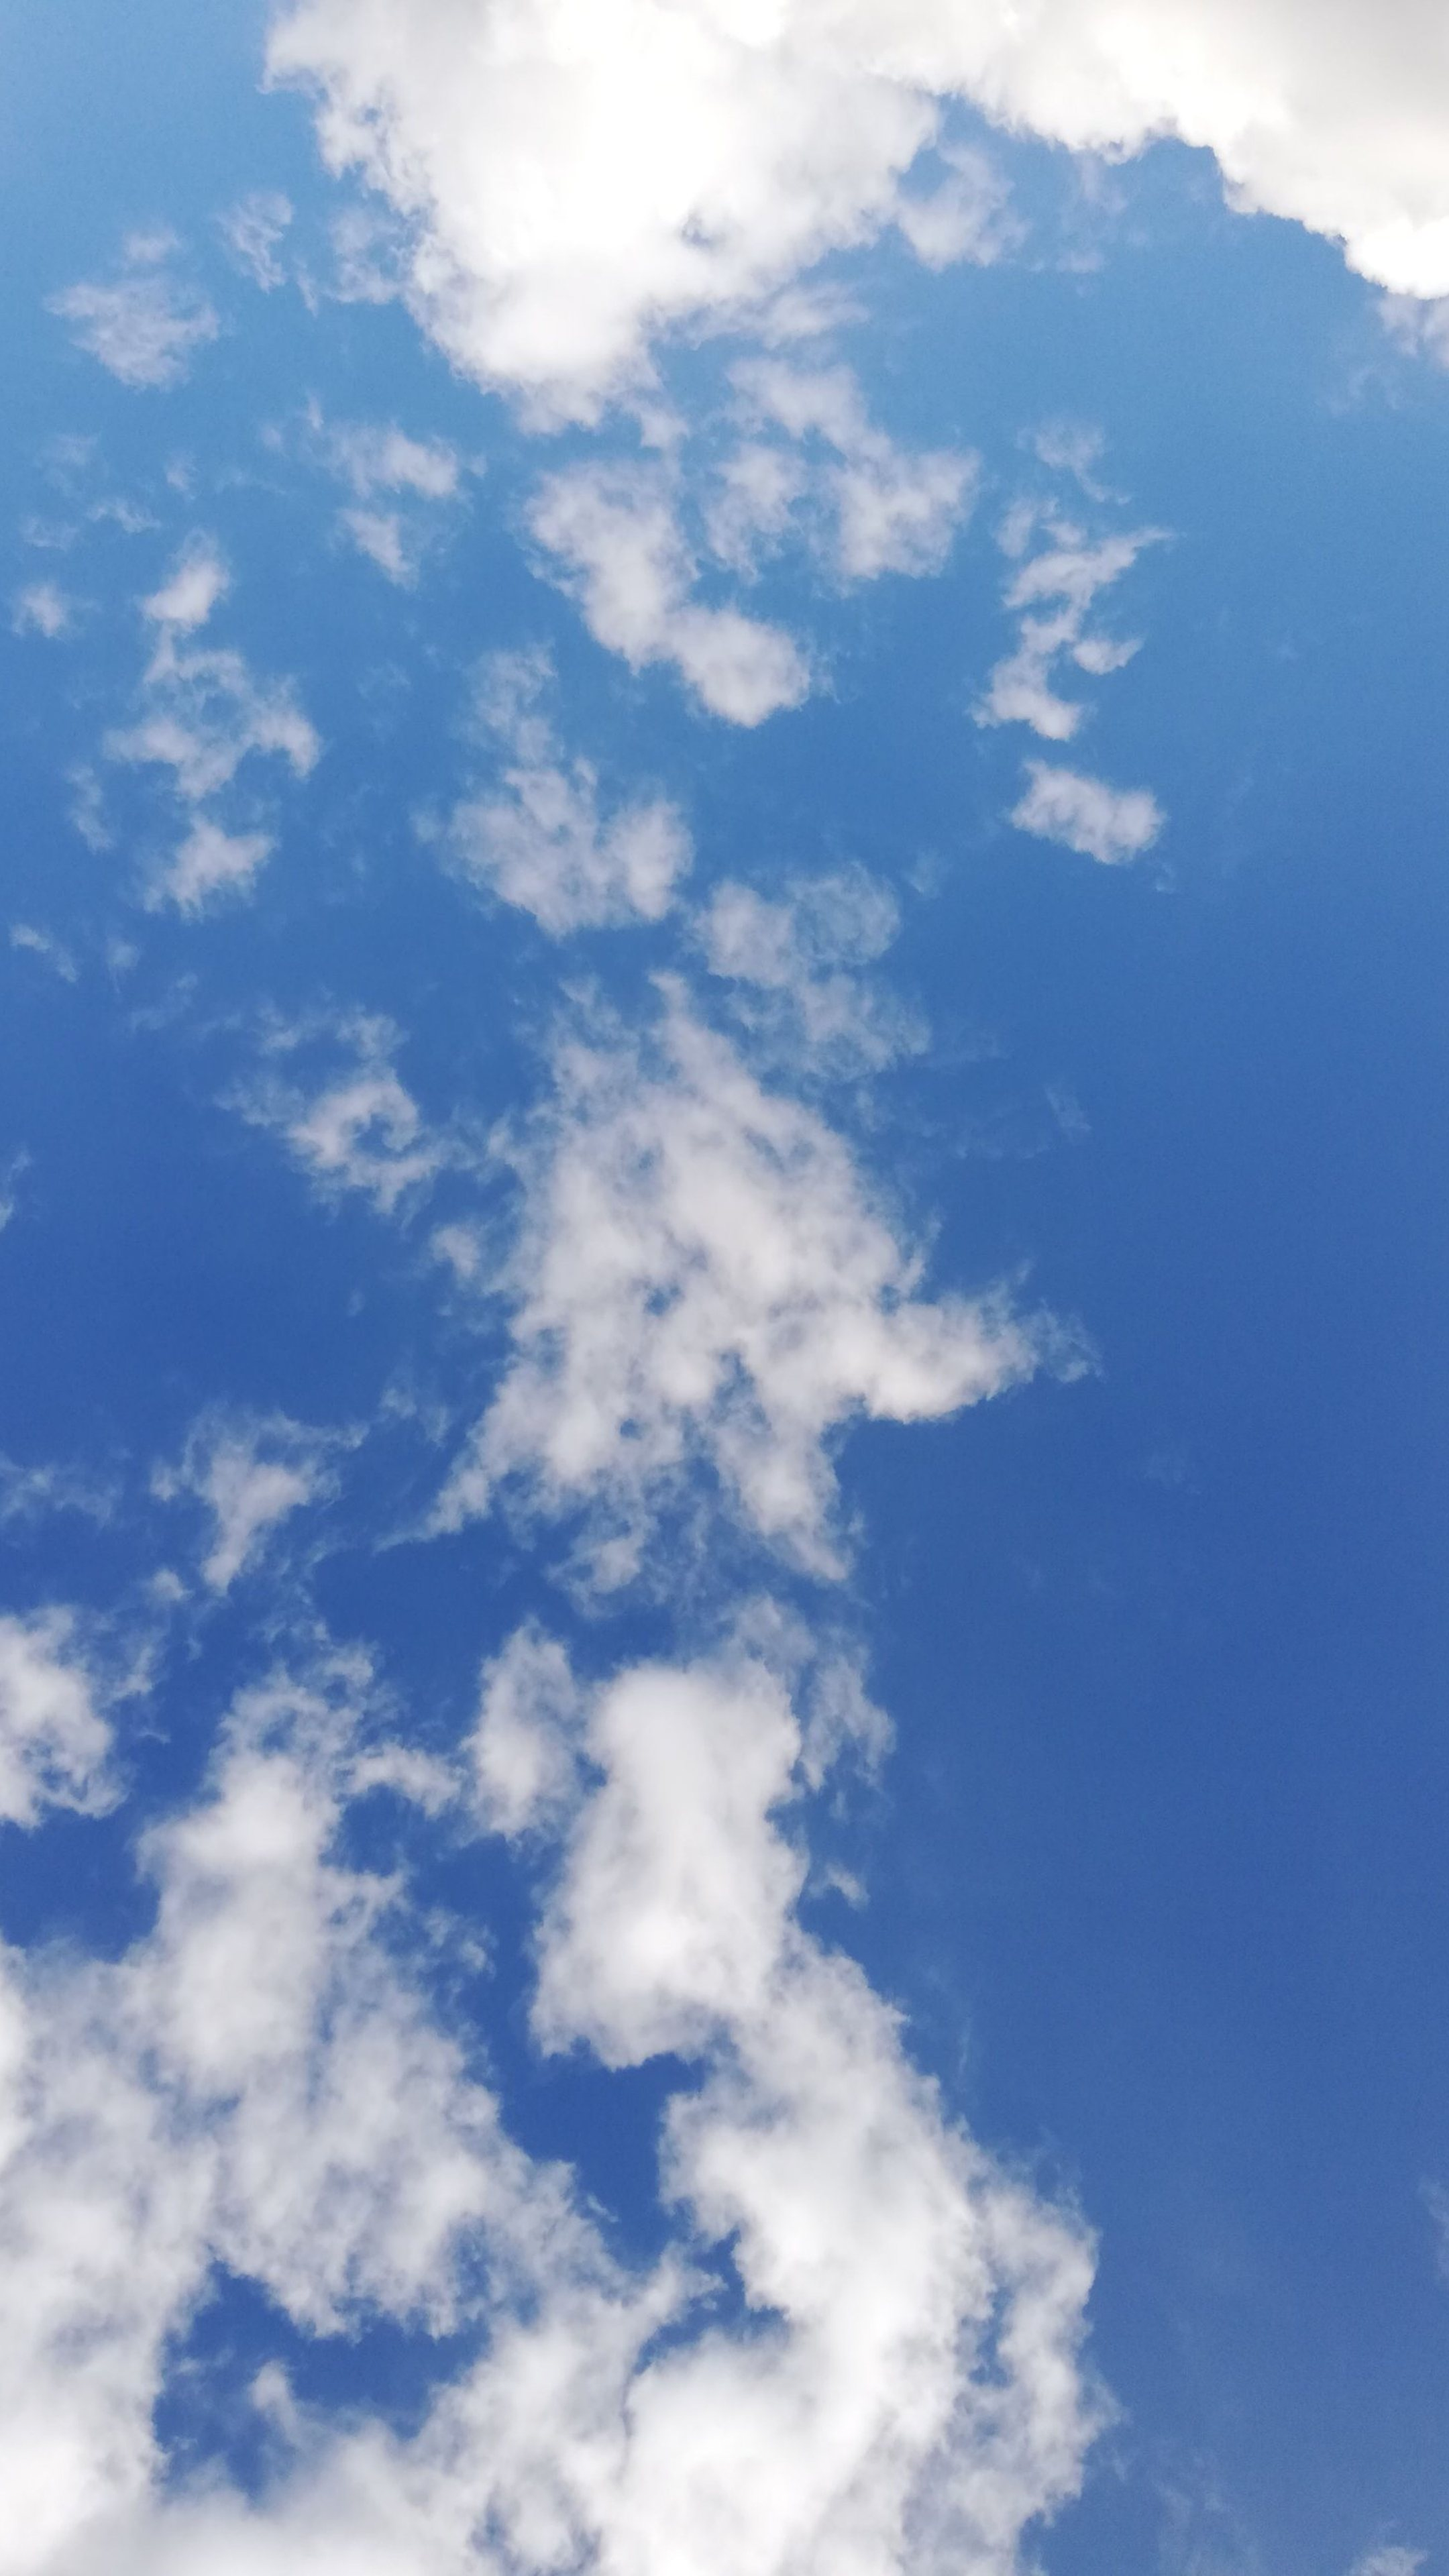
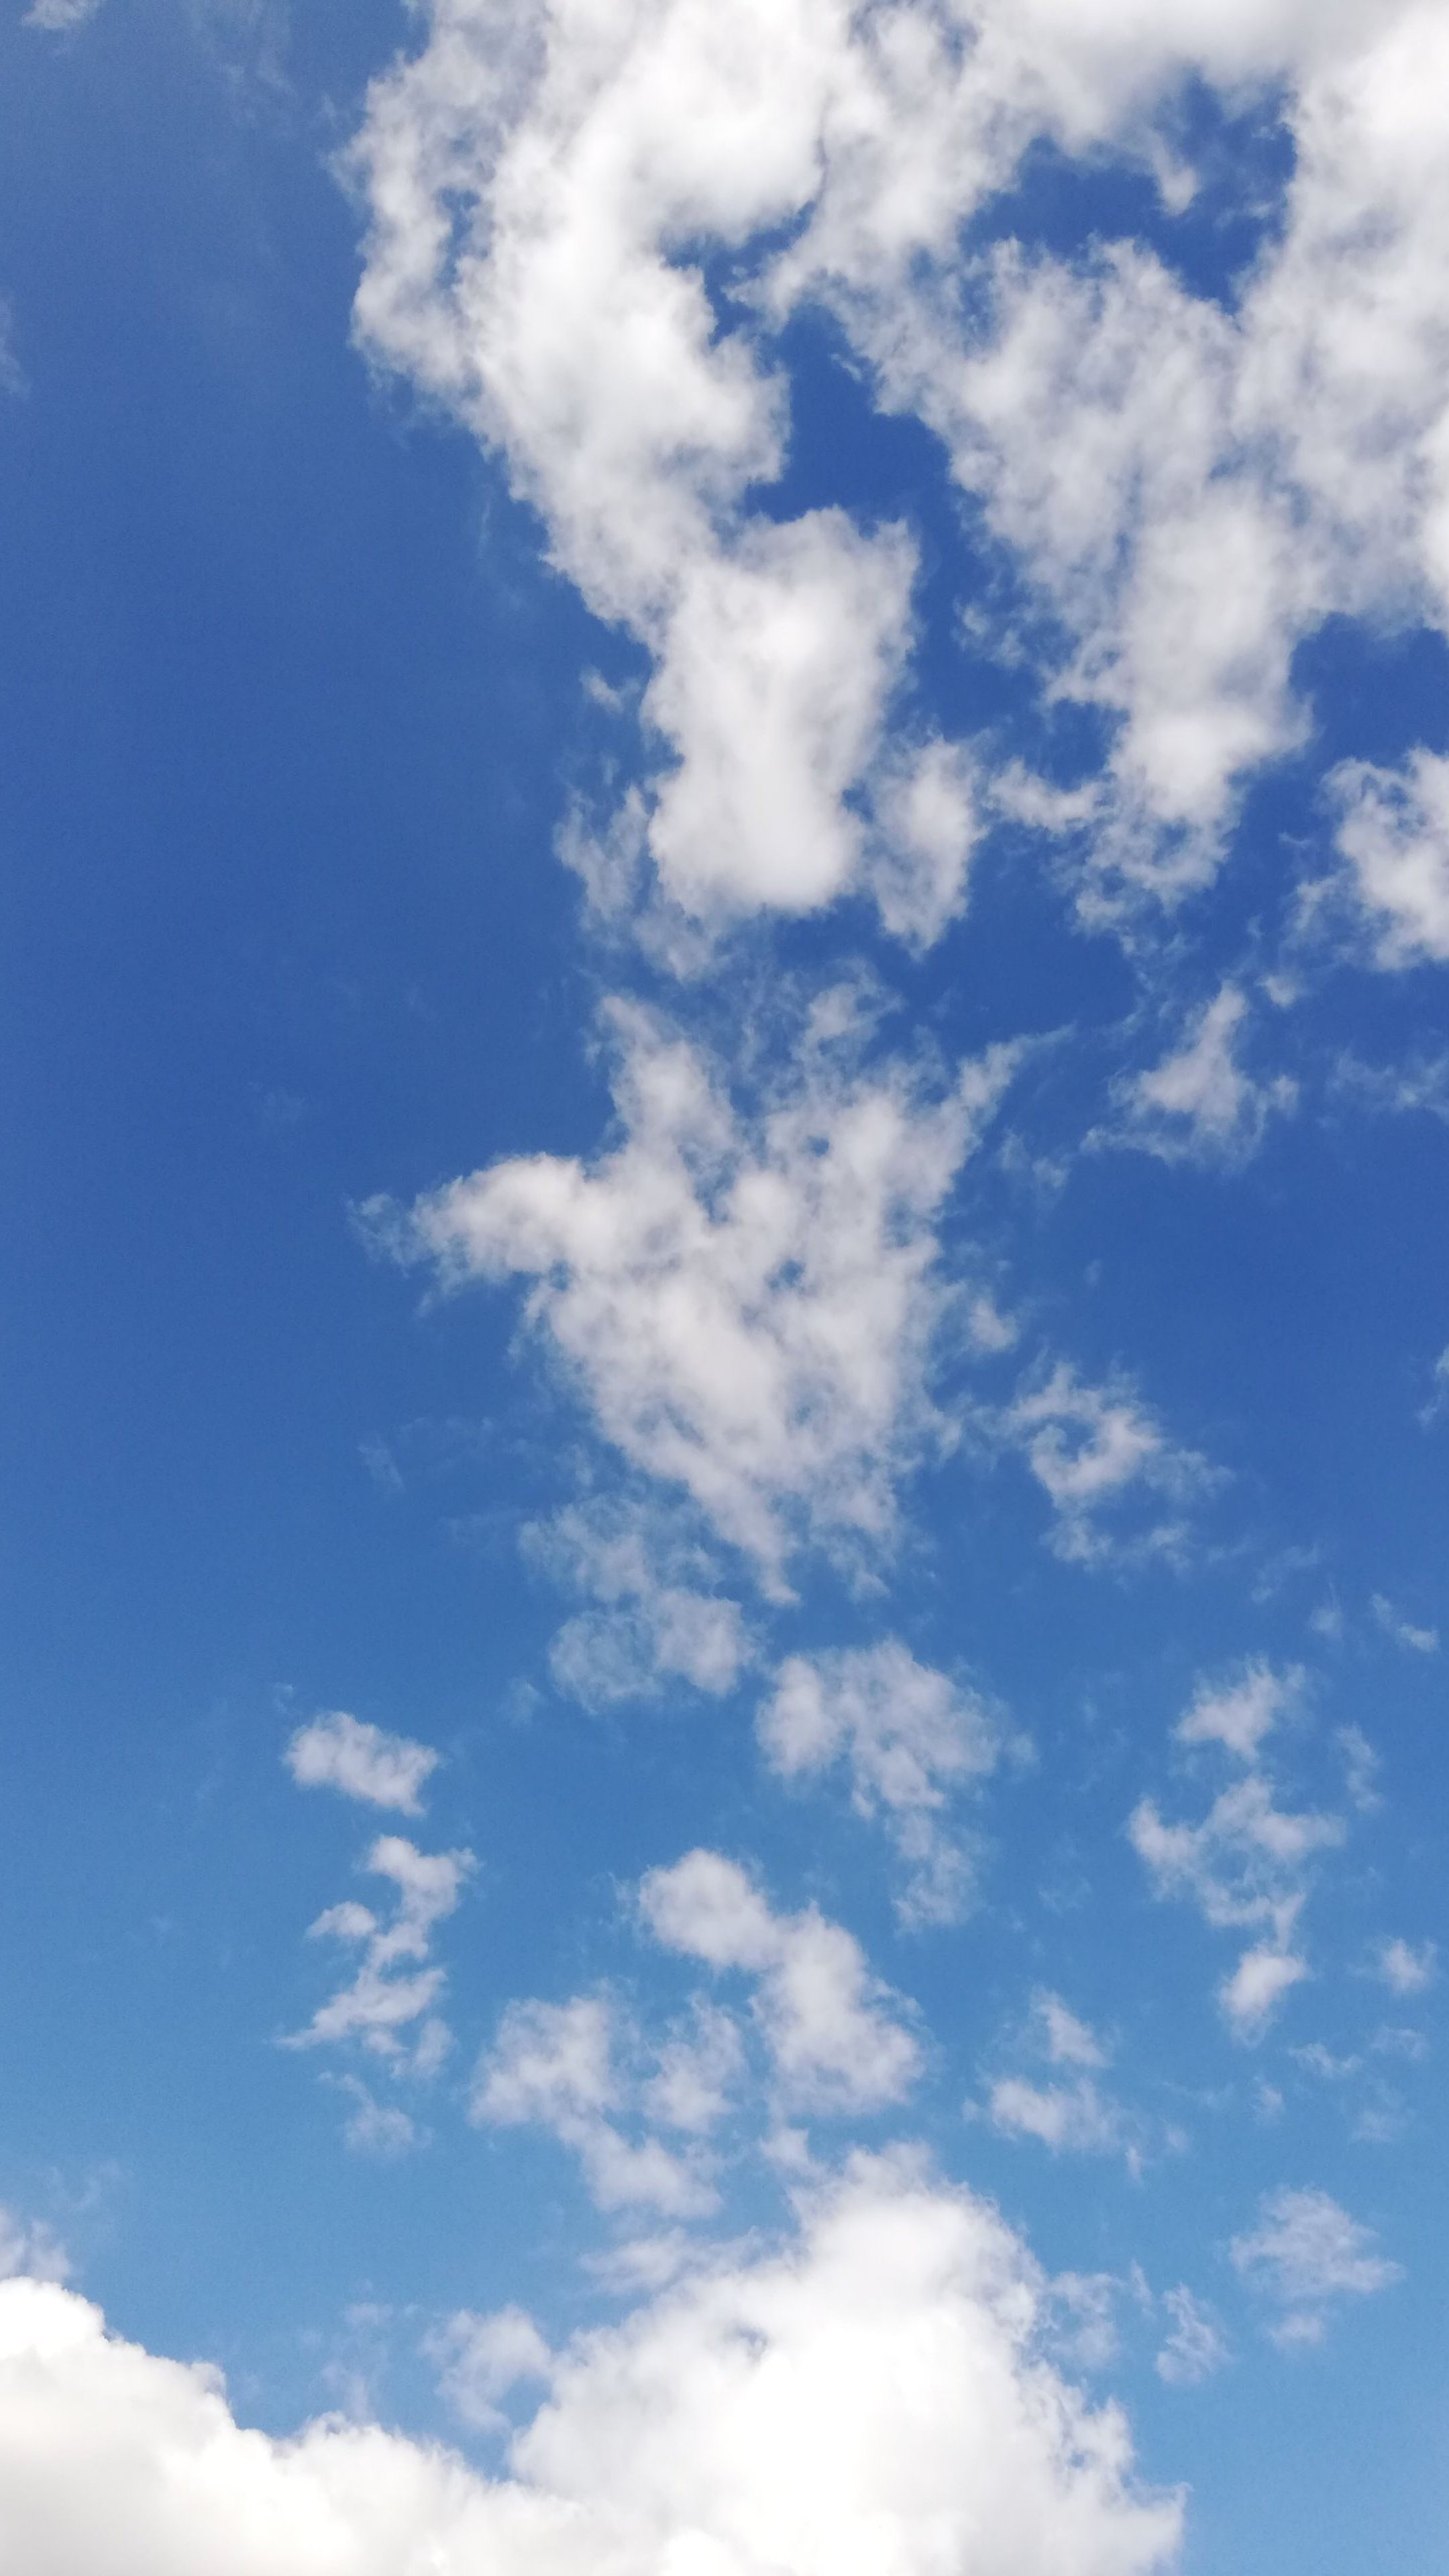
Kitchen board: partly cloudy is the turned version flipped top to bottom
Claude-Session: https://claude.ai/code/session_0197ewpwxAhUAUG7xaNo6b2x

diff --git a/house/house/server.py b/house/house/server.py
@@ -20,7 +20,7 @@ from board import Board
 log = logging.getLogger("house")
 WWW = Path(__file__).parent / "www"
 HA = "http://supervisor/core/api"
-VERSION = "0.11.5"
+VERSION = "0.11.6"
 
 
 def load_options(path: str = "/data/options.json") -> dict:
